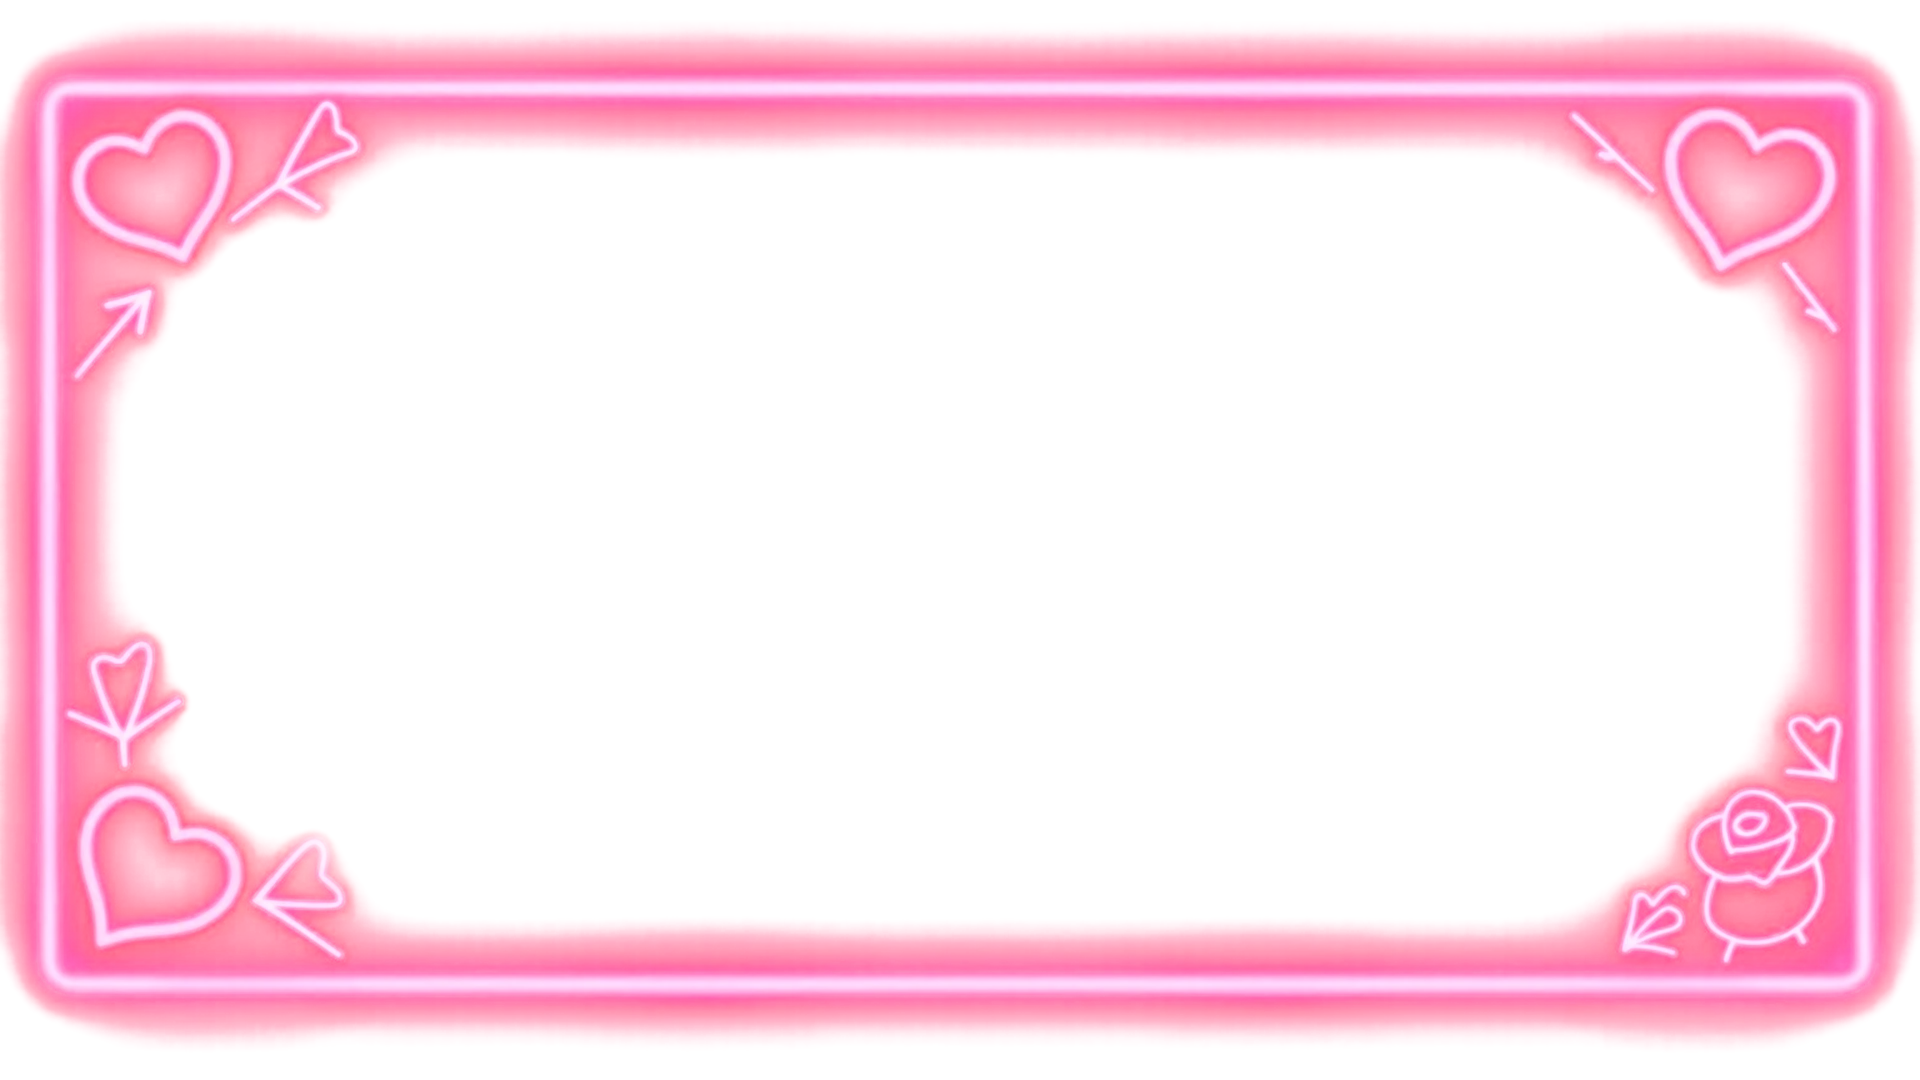
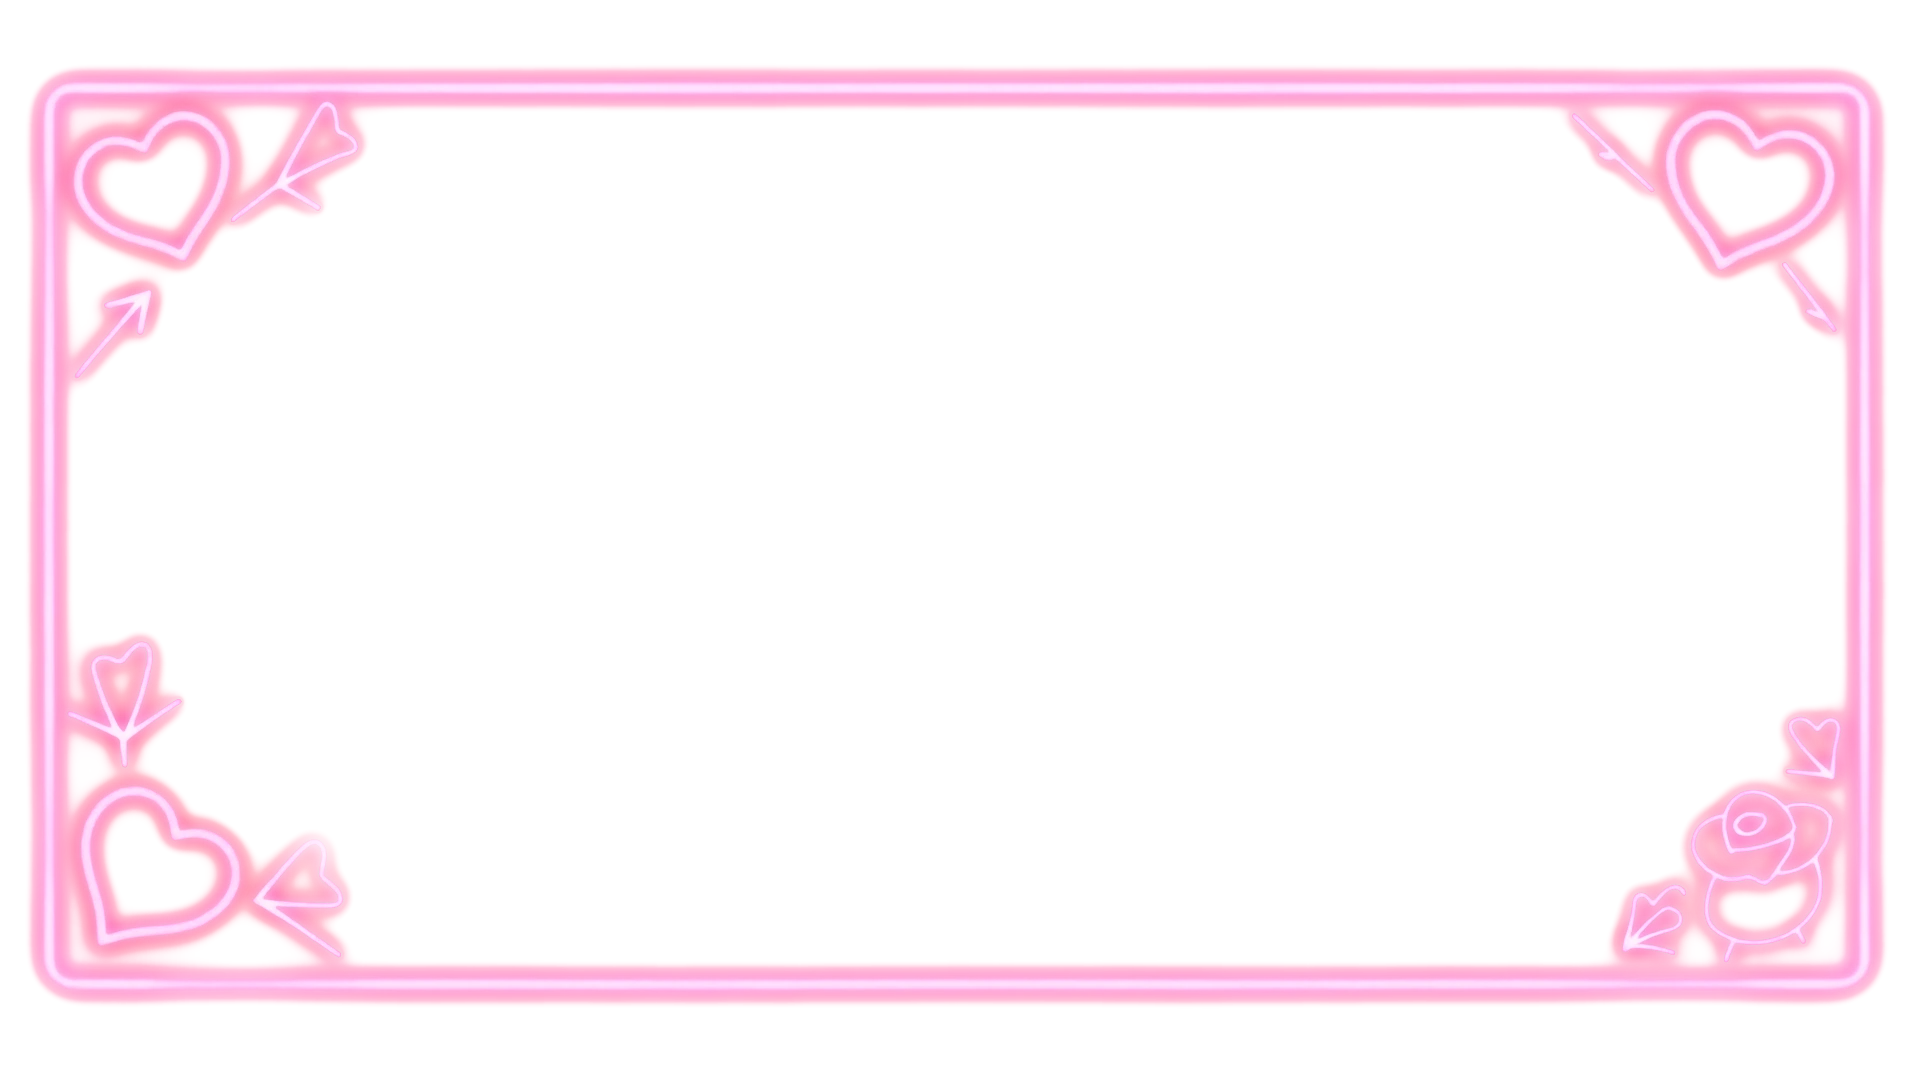
Rebuild the Valentine neon frame from its tube cores
Flux flooded this raw with red bloom across the whole picture, so the
alpha came out as a translucent pink wash. Only the bright tube cores
are kept now and an even glow is grown from them.

Changed region(s): [[0.0, 0.0306, 1.0, 0.9778]]

diff --git a/tools/ai/gen_frames.py b/tools/ai/gen_frames.py
@@ -112,12 +112,36 @@ def unmultiply_black(raw):
     return Image.fromarray(np.clip(col, 0, 255).astype(np.uint8)), Image.fromarray(np.clip(a * 255, 0, 255).astype(np.uint8))
 
 
+def rebuild_neon(raw):
+    """For raws whose bloom floods the whole picture: keep only the bright tube cores and grow an even
+    glow from them, tinted with the light's own colour."""
+    src = np.asarray(raw, dtype=np.float32)
+    lum = src.min(axis=2)  # tube cores are near white; the bloom is saturated, so it is dark here
+    t = np.clip((lum - 110) / (190 - 110), 0, 1)
+    core = t * t * (3 - 2 * t)
+    hue_src = np.asarray(raw.filter(ImageFilter.GaussianBlur(6)), dtype=np.float32)
+    hue = hue_src / np.maximum(hue_src.max(axis=2), 1)[..., None]
+    m = Image.fromarray((core * 255).astype(np.uint8))
+    glow = (np.asarray(m.filter(ImageFilter.GaussianBlur(9)), dtype=np.float32) * 1.4
+            + np.asarray(m.filter(ImageFilter.GaussianBlur(26)), dtype=np.float32) * 0.9) / 255
+    glow_rgb = hue * np.clip(glow, 0, 1)[..., None] * 255
+    core_rgb = src * core[..., None]
+    light = 255 - (255 - core_rgb) * (255 - glow_rgb) / 255
+    return Image.fromarray(np.clip(light, 0, 255).astype(np.uint8))
+
+
+# Neon raws where Flux flooded the background with bloom.
+REBUILD = {'valentine-neon'}
+
+
 def finish(raw, cut, path, glow=False):
     W, H = 1920, 1080
     raw = raw.convert('RGB').resize((W, H), Image.LANCZOS)
     alpha = cut.convert('RGBA').resize((W, H), Image.LANCZOS).split()[3]
     if glow:
         # Neon: alpha comes from the light itself, colours are un-multiplied from black.
+        if os.path.basename(path)[:-5] in REBUILD:
+            raw = rebuild_neon(raw)
         raw, alpha = unmultiply_black(raw)
         hole = Image.new('L', (W, H), 255)
         ImageDraw.Draw(hole).rounded_rectangle((int(W * 0.15), int(H * 0.2), int(W * 0.85), int(H * 0.8)), radius=60, fill=0)
